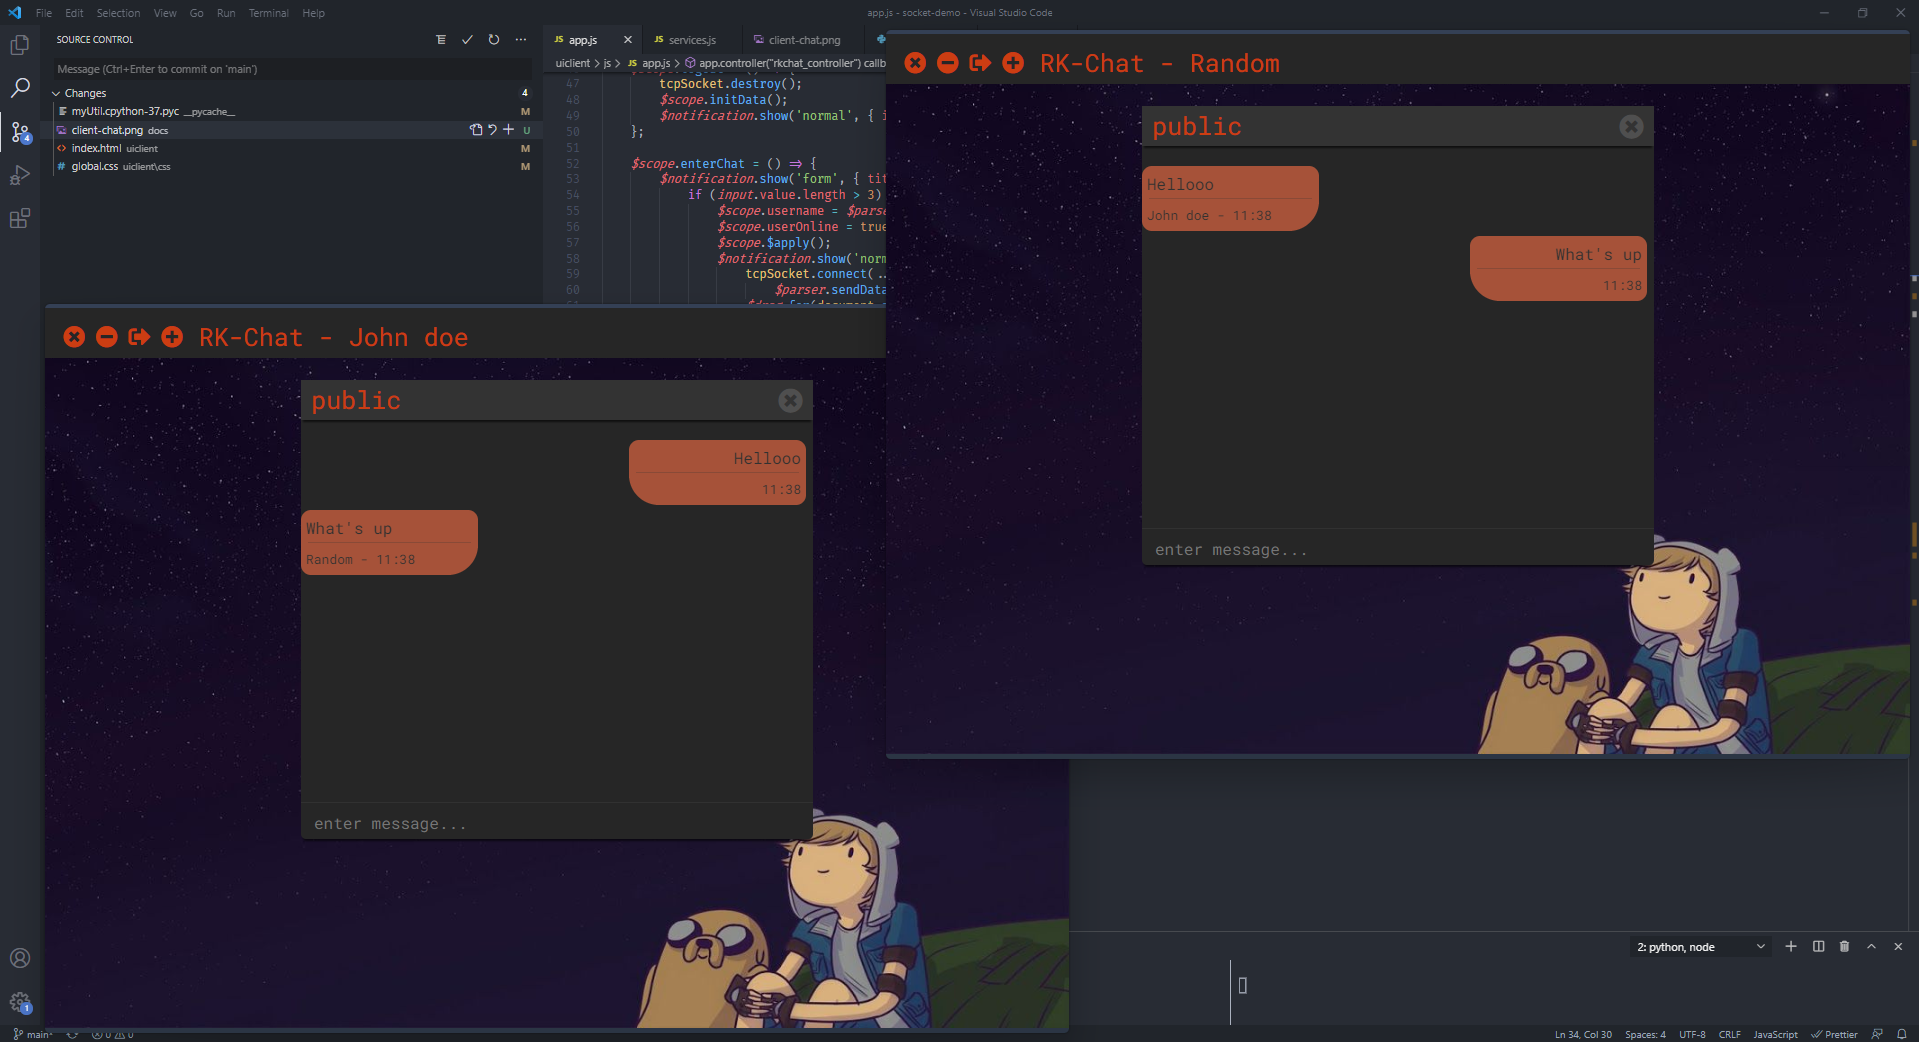
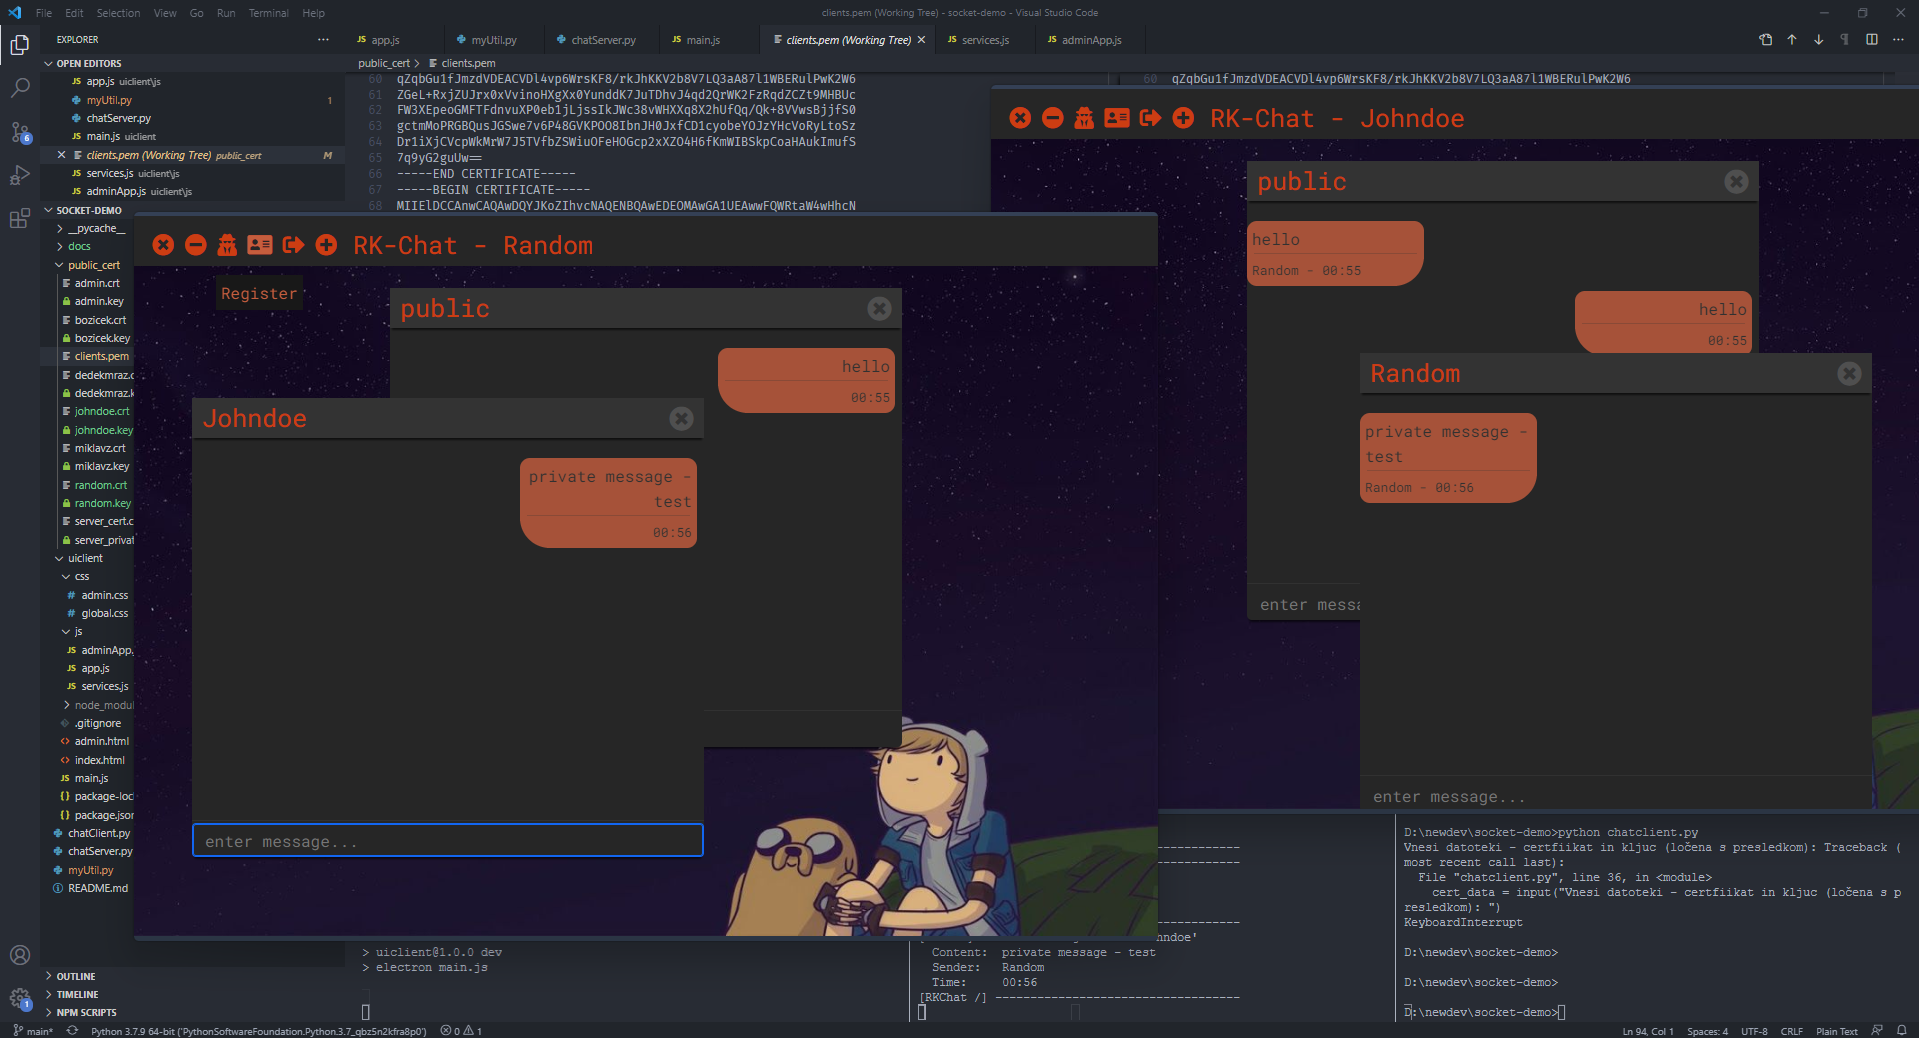
docs - update

diff --git a/README.md b/README.md
@@ -13,6 +13,8 @@ If you are using the terminal client this is the way to send messages:
 * Sending private/public messages
 * Basic alerts and live messaging with reactive UI
 * Error message when trying to send a private message to somone who isn't online
+* Admin dashboard: viewing who is currently online and manually confirming ssl certificates
+* Users can register with their username (app will generate unverified certificate)
 
 #### Message structure example
 ```json
@@ -25,7 +27,8 @@ If you are using the terminal client this is the way to send messages:
 
 ### GUI Client
 
-![banner-img](https://raw.githubusercontent.com/JanezSedeljsak/tcp-socket-demo/main/docs/client-chat.png)
+> Chat: ![banner-img](https://raw.githubusercontent.com/JanezSedeljsak/tcp-socket-demo/main/docs/client-chat.png)
+> Admin app: ![banner-img](https://raw.githubusercontent.com/JanezSedeljsak/tcp-socket-demo/main/docs/admin-app.png)
 
 ### App structure
 ```
@@ -37,9 +40,11 @@ If you are using the terminal client this is the way to send messages:
         └──  ..... certificates [*.key, *.crt]
     └──  uiclient (electron based GUI client)
         └──  main.js (electron entry point)
+        └──  admin.html (admin template)
         └──  index.html 
         └──  js
             └──  app.js (main logic for client)
+            └──  adminApp.js (main logic for adminApp)
             └──  services.js (helpers methods for angular)
         └──  css (additional styling)
 ```
